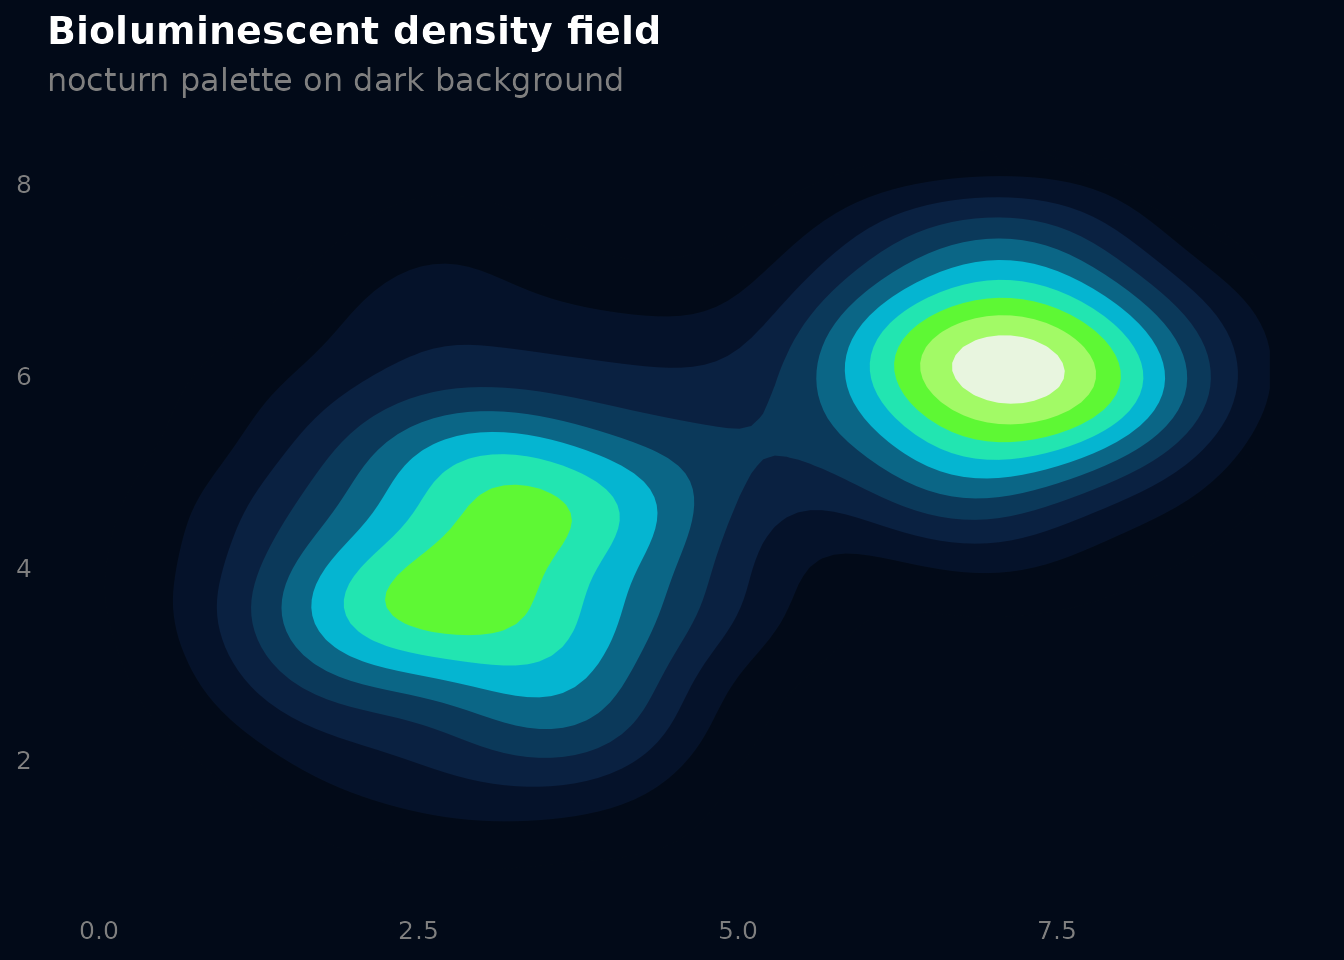
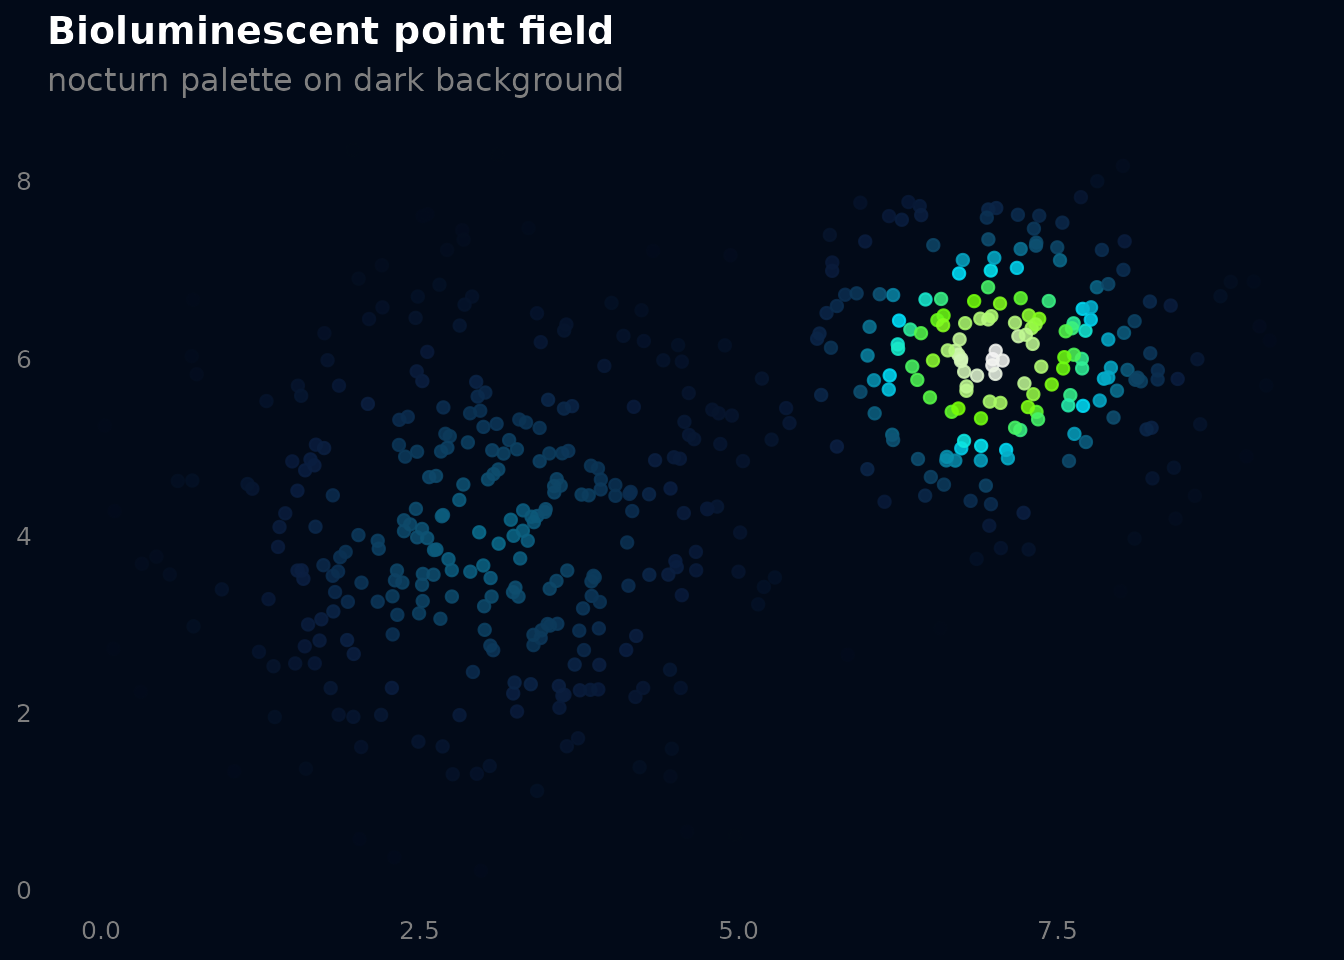
Deploying to gh-pages from @ orijitghosh/prakriti@62ae293238a3a07650c394b37dec02db69f92a85 🚀

diff --git a/LICENSE-text.html b/LICENSE-text.html
@@ -32,27 +32,8 @@
 
     </div>
 
-<pre>MIT License
-
-Copyright (c) 2026 Arijit Ghosh
-
-Permission is hereby granted, free of charge, to any person obtaining a copy
-of this software and associated documentation files (the "Software"), to deal
-in the Software without restriction, including without limitation the rights
-to use, copy, modify, merge, publish, distribute, sublicense, and/or sell
-copies of the Software, and to permit persons to whom the Software is
-furnished to do so, subject to the following conditions:
-
-The above copyright notice and this permission notice shall be included in all
-copies or substantial portions of the Software.
-
-THE SOFTWARE IS PROVIDED "AS IS", WITHOUT WARRANTY OF ANY KIND, EXPRESS OR
-IMPLIED, INCLUDING BUT NOT LIMITED TO THE WARRANTIES OF MERCHANTABILITY,
-FITNESS FOR A PARTICULAR PURPOSE AND NONINFRINGEMENT. IN NO EVENT SHALL THE
-AUTHORS OR COPYRIGHT HOLDERS BE LIABLE FOR ANY CLAIM, DAMAGES OR OTHER
-LIABILITY, WHETHER IN AN ACTION OF CONTRACT, TORT OR OTHERWISE, ARISING FROM,
-OUT OF OR IN CONNECTION WITH THE SOFTWARE OR THE USE OR OTHER DEALINGS IN THE
-SOFTWARE.
+<pre>YEAR: 2026
+COPYRIGHT HOLDER: Arijit Ghosh
 </pre>
 
   </main></div>

diff --git a/articles/qualitative.html b/articles/qualitative.html
@@ -305,7 +305,7 @@ overlap.</p>
 <p><img src="qualitative_files/figure-html/jitter-1.png" class="r-plt" alt="" width="672"></p>
 </div>
 <div class="section level2">
-<h2 id="dark-mode-density---nocturn">Dark-mode density - nocturn<a class="anchor" aria-label="anchor" href="#dark-mode-density---nocturn"></a>
+<h2 id="dark-mode-scatter---nocturn">Dark-mode scatter - nocturn<a class="anchor" aria-label="anchor" href="#dark-mode-scatter---nocturn"></a>
 </h2>
 <p><code>nocturn</code> starts from near-black, so it pairs naturally
 with a dark background. Good for presentations or dashboards with dark
@@ -316,13 +316,16 @@ themes.</p>
 <span>  x <span class="op">=</span> <span class="fu"><a href="https://rdrr.io/r/base/c.html" class="external-link">c</a></span><span class="op">(</span><span class="fu"><a href="https://rdrr.io/r/stats/Normal.html" class="external-link">rnorm</a></span><span class="op">(</span><span class="fl">300</span>, <span class="fl">3</span>, <span class="fl">1.2</span><span class="op">)</span>, <span class="fu"><a href="https://rdrr.io/r/stats/Normal.html" class="external-link">rnorm</a></span><span class="op">(</span><span class="fl">200</span>, <span class="fl">7</span>, <span class="fl">0.8</span><span class="op">)</span><span class="op">)</span>,</span>
 <span>  y <span class="op">=</span> <span class="fu"><a href="https://rdrr.io/r/base/c.html" class="external-link">c</a></span><span class="op">(</span><span class="fu"><a href="https://rdrr.io/r/stats/Normal.html" class="external-link">rnorm</a></span><span class="op">(</span><span class="fl">300</span>, <span class="fl">4</span>, <span class="fl">1.5</span><span class="op">)</span>, <span class="fu"><a href="https://rdrr.io/r/stats/Normal.html" class="external-link">rnorm</a></span><span class="op">(</span><span class="fl">200</span>, <span class="fl">6</span>, <span class="fl">1.0</span><span class="op">)</span><span class="op">)</span></span>
 <span><span class="op">)</span></span>
+<span><span class="va">bio_pts</span><span class="op">$</span><span class="va">intensity</span> <span class="op">&lt;-</span> <span class="fu"><a href="https://rdrr.io/r/base/with.html" class="external-link">with</a></span><span class="op">(</span><span class="va">bio_pts</span>,</span>
+<span>  <span class="fu"><a href="https://rdrr.io/r/stats/Normal.html" class="external-link">dnorm</a></span><span class="op">(</span><span class="va">x</span>, <span class="fl">3</span>, <span class="fl">1.2</span><span class="op">)</span> <span class="op">*</span> <span class="fu"><a href="https://rdrr.io/r/stats/Normal.html" class="external-link">dnorm</a></span><span class="op">(</span><span class="va">y</span>, <span class="fl">4</span>, <span class="fl">1.5</span><span class="op">)</span> <span class="op">+</span></span>
+<span>  <span class="fu"><a href="https://rdrr.io/r/stats/Normal.html" class="external-link">dnorm</a></span><span class="op">(</span><span class="va">x</span>, <span class="fl">7</span>, <span class="fl">0.8</span><span class="op">)</span> <span class="op">*</span> <span class="fu"><a href="https://rdrr.io/r/stats/Normal.html" class="external-link">dnorm</a></span><span class="op">(</span><span class="va">y</span>, <span class="fl">6</span>, <span class="fl">1.0</span><span class="op">)</span></span>
+<span><span class="op">)</span></span>
 <span></span>
-<span><span class="fu"><a href="https://ggplot2.tidyverse.org/reference/ggplot.html" class="external-link">ggplot</a></span><span class="op">(</span><span class="va">bio_pts</span>, <span class="fu"><a href="https://ggplot2.tidyverse.org/reference/aes.html" class="external-link">aes</a></span><span class="op">(</span><span class="va">x</span>, <span class="va">y</span><span class="op">)</span><span class="op">)</span> <span class="op">+</span></span>
-<span>  <span class="fu"><a href="https://ggplot2.tidyverse.org/reference/geom_density_2d.html" class="external-link">stat_density_2d</a></span><span class="op">(</span><span class="fu"><a href="https://ggplot2.tidyverse.org/reference/aes.html" class="external-link">aes</a></span><span class="op">(</span>fill <span class="op">=</span> <span class="fu"><a href="https://ggplot2.tidyverse.org/reference/aes_eval.html" class="external-link">after_stat</a></span><span class="op">(</span><span class="va">level</span><span class="op">)</span><span class="op">)</span>,</span>
-<span>                  geom <span class="op">=</span> <span class="st">"polygon"</span>, alpha <span class="op">=</span> <span class="fl">0.85</span><span class="op">)</span> <span class="op">+</span></span>
-<span>  <span class="fu"><a href="../reference/scale_prakriti.html">scale_fill_prakriti</a></span><span class="op">(</span><span class="st">"nocturn"</span>, discrete <span class="op">=</span> <span class="cn">FALSE</span><span class="op">)</span> <span class="op">+</span></span>
+<span><span class="fu"><a href="https://ggplot2.tidyverse.org/reference/ggplot.html" class="external-link">ggplot</a></span><span class="op">(</span><span class="va">bio_pts</span>, <span class="fu"><a href="https://ggplot2.tidyverse.org/reference/aes.html" class="external-link">aes</a></span><span class="op">(</span><span class="va">x</span>, <span class="va">y</span>, color <span class="op">=</span> <span class="va">intensity</span><span class="op">)</span><span class="op">)</span> <span class="op">+</span></span>
+<span>  <span class="fu"><a href="https://ggplot2.tidyverse.org/reference/geom_point.html" class="external-link">geom_point</a></span><span class="op">(</span>size <span class="op">=</span> <span class="fl">1.8</span>, alpha <span class="op">=</span> <span class="fl">0.85</span><span class="op">)</span> <span class="op">+</span></span>
+<span>  <span class="fu"><a href="../reference/scale_prakriti.html">scale_color_prakriti</a></span><span class="op">(</span><span class="st">"nocturn"</span>, discrete <span class="op">=</span> <span class="cn">FALSE</span><span class="op">)</span> <span class="op">+</span></span>
 <span>  <span class="fu"><a href="https://ggplot2.tidyverse.org/reference/labs.html" class="external-link">labs</a></span><span class="op">(</span></span>
-<span>    title <span class="op">=</span> <span class="st">"Bioluminescent density field"</span>,</span>
+<span>    title <span class="op">=</span> <span class="st">"Bioluminescent point field"</span>,</span>
 <span>    subtitle <span class="op">=</span> <span class="st">"nocturn palette on dark background"</span>,</span>
 <span>    x <span class="op">=</span> <span class="cn">NULL</span>, y <span class="op">=</span> <span class="cn">NULL</span></span>
 <span>  <span class="op">)</span> <span class="op">+</span></span>

diff --git a/LICENSE-text.md b/LICENSE-text.md
@@ -1,23 +1,4 @@
 # License
 
-    MIT License
-
-    Copyright (c) 2026 Arijit Ghosh
-
-    Permission is hereby granted, free of charge, to any person obtaining a copy
-    of this software and associated documentation files (the "Software"), to deal
-    in the Software without restriction, including without limitation the rights
-    to use, copy, modify, merge, publish, distribute, sublicense, and/or sell
-    copies of the Software, and to permit persons to whom the Software is
-    furnished to do so, subject to the following conditions:
-
-    The above copyright notice and this permission notice shall be included in all
-    copies or substantial portions of the Software.
-
-    THE SOFTWARE IS PROVIDED "AS IS", WITHOUT WARRANTY OF ANY KIND, EXPRESS OR
-    IMPLIED, INCLUDING BUT NOT LIMITED TO THE WARRANTIES OF MERCHANTABILITY,
-    FITNESS FOR A PARTICULAR PURPOSE AND NONINFRINGEMENT. IN NO EVENT SHALL THE
-    AUTHORS OR COPYRIGHT HOLDERS BE LIABLE FOR ANY CLAIM, DAMAGES OR OTHER
-    LIABILITY, WHETHER IN AN ACTION OF CONTRACT, TORT OR OTHERWISE, ARISING FROM,
-    OUT OF OR IN CONNECTION WITH THE SOFTWARE OR THE USE OR OTHER DEALINGS IN THE
-    SOFTWARE.
+    YEAR: 2026
+    COPYRIGHT HOLDER: Arijit Ghosh

diff --git a/articles/qualitative.md b/articles/qualitative.md
@@ -265,7 +265,7 @@ ggplot(mpg, aes(displ, hwy, color = class)) +
 
 ![](qualitative_files/figure-html/jitter-1.png)
 
-## Dark-mode density - nocturn
+## Dark-mode scatter - nocturn
 
 `nocturn` starts from near-black, so it pairs naturally with a dark
 background. Good for presentations or dashboards with dark themes.
@@ -277,13 +277,16 @@ bio_pts <- data.frame(
   x = c(rnorm(300, 3, 1.2), rnorm(200, 7, 0.8)),
   y = c(rnorm(300, 4, 1.5), rnorm(200, 6, 1.0))
 )
+bio_pts$intensity <- with(bio_pts,
+  dnorm(x, 3, 1.2) * dnorm(y, 4, 1.5) +
+  dnorm(x, 7, 0.8) * dnorm(y, 6, 1.0)
+)
 
-ggplot(bio_pts, aes(x, y)) +
-  stat_density_2d(aes(fill = after_stat(level)),
-                  geom = "polygon", alpha = 0.85) +
-  scale_fill_prakriti("nocturn", discrete = FALSE) +
+ggplot(bio_pts, aes(x, y, color = intensity)) +
+  geom_point(size = 1.8, alpha = 0.85) +
+  scale_color_prakriti("nocturn", discrete = FALSE) +
   labs(
-    title = "Bioluminescent density field",
+    title = "Bioluminescent point field",
     subtitle = "nocturn palette on dark background",
     x = NULL, y = NULL
   ) +